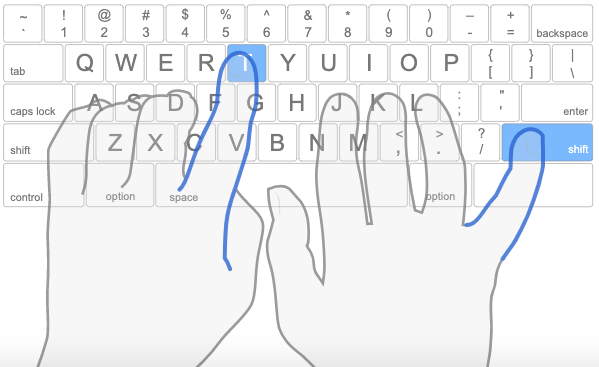
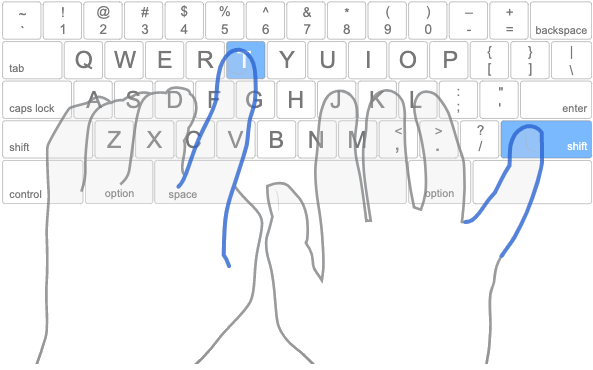
Update capital letter images

diff --git a/dist/main.js b/dist/main.js
@@ -94,7 +94,7 @@
 /***/ (function(module, exports, __webpack_require__) {
 
 "use strict";
[2 lines of base64/hex data omitted]
 
 /***/ }),
 
@@ -142,7 +142,7 @@ eval("\n\nObject.defineProperty(exports, \"__esModule\", {\n    value: true\n});
 /***/ (function(module, exports, __webpack_require__) {
 
 "use strict";
[2 lines of base64/hex data omitted]
 
 /***/ }),
 
@@ -154,7 +154,7 @@ eval("\n\nObject.defineProperty(exports, \"__esModule\", {\n    value: true\n});
 /***/ (function(module, exports, __webpack_require__) {
 
 "use strict";
[2 lines of base64/hex data omitted]
 
 /***/ }),
 

diff --git a/src/play.js b/src/play.js
@@ -91,7 +91,7 @@ class Play {
         const statsSection = document.createElement("div");
 
         document.addEventListener("keypress", e => {
-            const currentLetter = lesson.letters[lesson.currentLetterIndex];
+            const currentLetter = lesson.letters[lesson.currentLetterIndex + 1];
             lesson.handleInput(e);
             scrollDown();
 
@@ -115,10 +115,10 @@ class Play {
         });
 
         document.addEventListener("keydown", e => {
-            const currentLetter = lesson.letters[lesson.currentLetterIndex];
+            const currentLetter = lesson.letters[lesson.currentLetterIndex - 1];
             lesson.handleBackspace(e);
 
-            if (lesson.currentLetterIndex < lesson.letters.length && e.key === "Backspace") {
+            if (currentLetter && lesson.currentLetterIndex < lesson.letters.length && e.key === "Backspace") {
                 keyboard.render(currentLetter);
                 scrollUp();
             }

diff --git a/src/lessons.js b/src/lessons.js
@@ -6,5 +6,9 @@ export default {
     1: {
         lessonName: "Lorem Ipsum",
         content: "Lorem ipsum dolor sit amet, consectetur adipiscing elit. Nulla leo dui, lobortis vitae nibh vitae, tempor bibendum nisi. Maecenas tempor feugiat dignissim. Cras placerat enim at mi consequat, ac eleifend enim viverra."
+    },
+    2: {
+        lessonName: "Capital Letters",
+        content: "ABCDEFGHIJKLMNOPQRSTUVWXYZ"
     }
 };

diff --git a/src/index.js b/src/index.js
@@ -2,6 +2,6 @@ import Play from './play';
 
 document.addEventListener("DOMContentLoaded", () => {
     const root = document.getElementById("root");
-    const play = new Play(1, root);
+    const play = new Play(2, root);
     play.render();
 });
